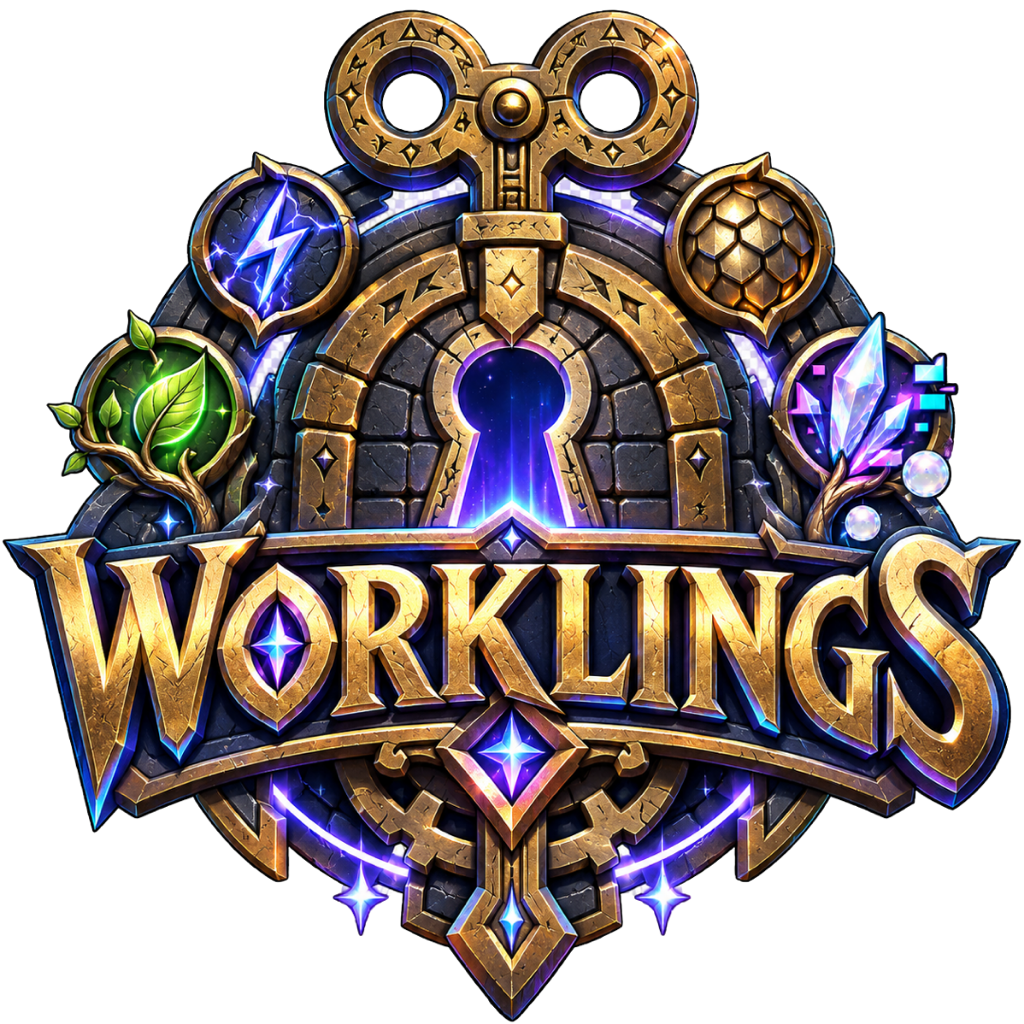
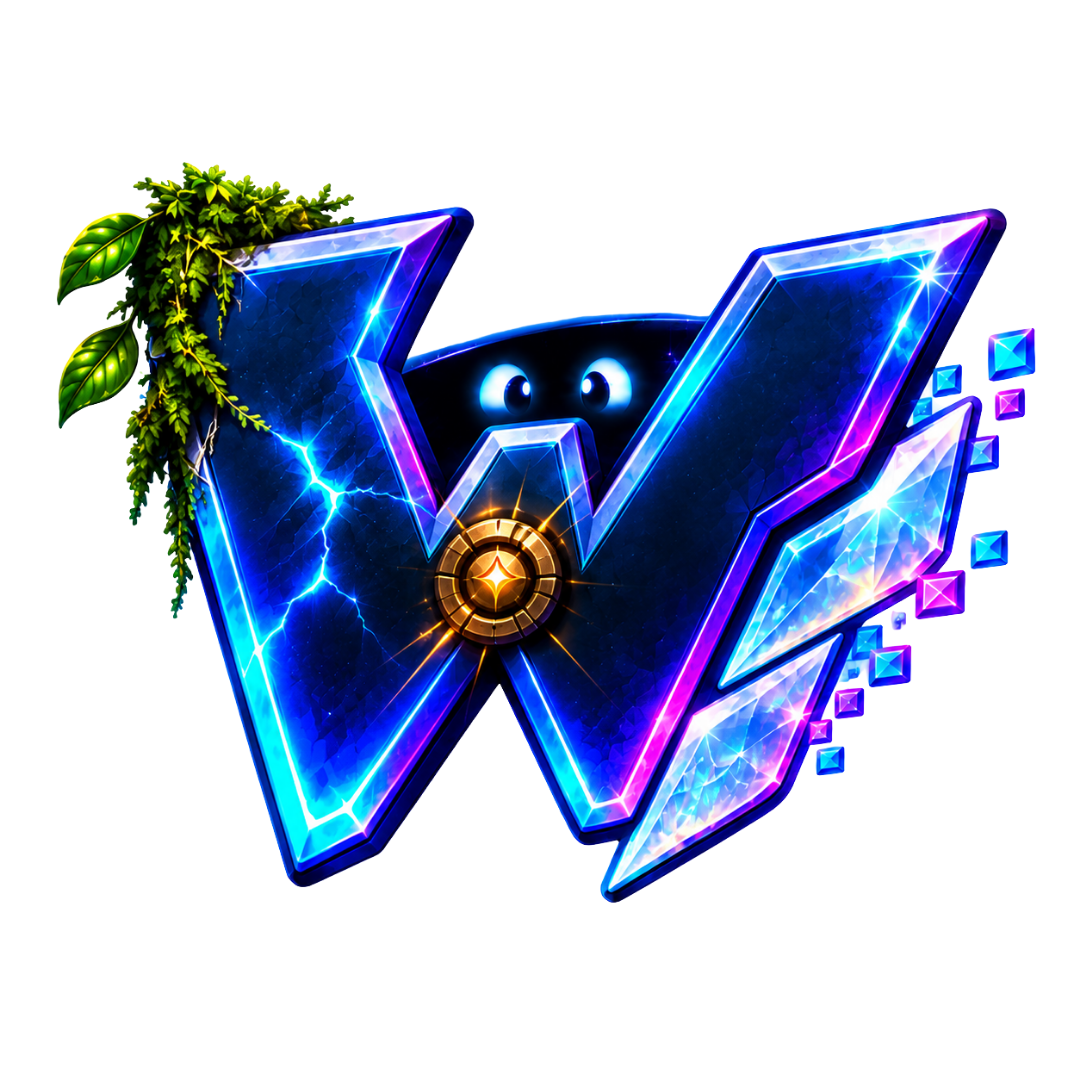
Give the app the wordmark's W, and stop shipping Intel

diff --git a/docs/changelog.md b/docs/changelog.md
@@ -1,5 +1,7 @@
 # Changelog
 
+- **2026-09-14 > godot/worklings/assets/app-icon.png, export_presets.cfg, scripts/godot-export, README.md, assets/worklings-poster.jpg, .gitignore, docs/process/distribution.md > the brand gets its W, and the bundle stops shipping an Intel copy of itself > **The app icon is now the wordmark's own letterform** rather than the crest from a day earlier — the same crystal facets, the same electric-blue-to-magenta run, the moss on the left riser, the gold clockwork gear at the crossing, and the eyes over the top. The crest was a good emblem for a different game; this one is recognisably the thing on the poster. The README hero becomes the horizontal key art, with the four families running out of a ruined arcane city. **And the shipped bundle stops being universal.** alpha.11 went out carrying a fat engine binary and a 76 MB Intel .NET runtime that no Apple Silicon Mac ever loads, because the doc claimed dropping Intel was one config line and done — it was neither. `binary_format/architecture="arm64"` fails outright: the .NET export templates ship one universal binary rather than per-arch ones, so the export dies naming a template file the archive never contained. The preset stays `universal` and `scripts/godot-export` strips the finished bundle instead, before signing: `lipo -thin arm64` on the engine binary, the x86_64 runtime deleted, and the Info.plist keys advertising x86_64 removed so the bundle does not claim an architecture it no longer carries. **159 MB of 350 MB**, and the DMG's `arm64` in its name is finally true. Full-resolution posters and brand source art are gitignored; the README uses a 465 KB derivative, and the icon that ships is committed at its point of use.**
+
 - **2026-09-14 > release > v0.1.0-alpha.11 (build 11) > The first public build from the Godot engine, and the first release in which the Swift app is not what ships. Tagged on the merge of #56 and published as a prerelease with a 156 MB Apple Silicon DMG and its checksum. It carries the whole port: the Cache Warren rebuilt around a round the player decides — Strike, Brace or Signature each round, the foe declaring its next move as an icon over its head before you commit, the Workling acting first, one countdown per move, and a HUD with the run state and a beat clock that names the turn — live rigged 3D characters with real idle, walk, attack, damage and death animations standing on the floor rather than through it, a per-creature signature effect layer, the desktop pet rebuilt on the same engine against the same save file, the prep/loadout screen, the end-of-delve pip loop fixed, and the app's first icon. Two things testers need told: the bundle identifier is still `com.bingeljell.worklings.godot`, so it installs **alongside** alpha.10 rather than over it while sharing one save file; and the download is 156 MB against alpha.10's 5 MB because the engine and the .NET runtime ship inside the app — the game itself is 16 MB of it.**
 
 - **2026-09-14 > scripts/verify_release, docs/process/distribution.md > the release verifier learns the Godot bundle's shape > `scripts/build_dmg` was taught the Godot bundle when the export was packaged; `verify_release` was not, so the last gate before publishing still failed a correct build. It insisted on the four pixel-art sprite sheets the Swift app carried loose in `Resources` — the Godot build packs its assets into the `.pck` and the art direction left pixel art behind — so it now checks `Worklings.pck` and the managed assemblies instead, the two things that actually go missing from an export and both of which fail silently. Three smaller mismatches with it: the bundle identifier may now be `com.bingeljell.worklings.godot` as well as the original (both are valid while the port runs; at cutover the second entry goes away), `CFBundleShortVersionString` is compared against the semantic core rather than the full prerelease version because macOS allows at most three integers there, and the minimum-system read falls back to `LSMinimumSystemVersionByArchitecture` — the Godot export writes that instead of a flat `LSMinimumSystemVersion`, and spells the value `14.00`.**

diff --git a/docs/process/distribution.md b/docs/process/distribution.md
@@ -158,17 +158,17 @@ shape for alpha.11.
 
 ### What it weighs, and why
 
-The first universal export was **336 MB**, against the Swift app's 4.7 MB. The
-breakdown is the whole explanation:
+`v0.1.0-alpha.11` shipped at **350 MB** (a 156 MB DMG), against the Swift app's
+4.7 MB. The breakdown is the whole explanation:
 
-| Part | Size |
-| --- | --- |
-| Godot engine binary (both architectures) | 163 MB |
-| .NET runtime, Apple Silicon | 82 MB |
-| .NET runtime, Intel | 75 MB |
-| **The game itself** — every scene, model, texture and line of our code | **16 MB** |
+| Part | alpha.11 | alpha.12 |
+| --- | --- | --- |
+| Godot engine binary | 162 MB (fat) | 79 MB (arm64) |
+| .NET runtime, Apple Silicon | 82 MB | 82 MB |
+| .NET runtime, Intel | 76 MB | — |
+| **The game itself** — every scene, model, texture and line of our code | **27 MB** | **27 MB** |
 
-**The game is 16 MB.** Everything else is engine and runtime, and in a universal
+**The game is 27 MB.** Everything else is engine and runtime, and in a universal
 build all of it ships twice.
 
 The Swift app is 4.7 MB because it borrows almost everything from the operating
@@ -178,16 +178,29 @@ because none of that can be assumed to exist on Windows or Linux. **The size is
 the price of cross-platform**, showing up as megabytes rather than as a second
 codebase — which was the trade the engine decision made on purpose.
 
-Dropping Intel takes it to roughly **180 MB** and costs a single config line.
-That is done.
+### Dropping Intel: not a config line
 
-### Deferred: getting it below 180 MB
+It was recorded here as "a single config line, and that is done". It was neither,
+and alpha.11 shipped an Intel engine and an Intel .NET runtime to Apple Silicon
+testers because of it.
 
-**Not before an alpha ships from it.** This is a distribution problem, not an
-architecture one — nothing built on top gets harder because the bundle is large,
-so it does not compound and it does not gate anything. Revisit when there is a
-build worth publishing, around alpha.11 or whichever version the port first
-ships as.
+`binary_format/architecture="arm64"` **fails**: the .NET export templates ship
+one universal binary rather than per-arch ones, so the export dies on a missing
+template naming a file the archive never contained. The preset has to stay
+`universal`.
+
+What works is stripping the finished bundle, which `scripts/godot-export` now
+does before it signs: `lipo -thin arm64` on the engine binary, the
+`data_Worklings_macos_x86_64` runtime deleted outright, and the Info.plist keys
+that advertise x86_64 removed with them. **159 MB of 350 MB**, taking alpha.12
+to roughly 190 MB. The DMG name has said `arm64` since alpha.11; as of alpha.12
+it is true.
+
+### Deferred: getting it below 190 MB
+
+This is a distribution problem, not an architecture one — nothing built on top
+gets harder because the bundle is large, so it does not compound and it does not
+gate anything.
 
 Two levers, in order of effort:
 
@@ -209,7 +222,6 @@ here.
 
 - Developer ID signing and Apple notarization.
 - Universal or separately published Intel builds.
-- A project-specific icon and final artwork.
 - Automatic release creation after protected CI checks.
 - Update checks or an in-app updater.
 - Reproducible builds across multiple machines and Xcode versions.

diff --git a/README.md b/README.md
@@ -1,7 +1,7 @@
 # Worklings
 
 <p align="center">
-  <img src="assets/worklings-social-preview.jpg" alt="Wildkin, Elemental, and Relicborn Worklings gathered in a magical woodland" width="900">
+  <img src="assets/worklings-poster.jpg" alt="Four Worklings — a moss fox, a storm ram, a clockwork pangolin and a glitch wolf — running out of a ruined arcane city" width="900">
 </p>
 
 As an MMO fan whose been itching to find some outlet, I figured having a pet that actually feels like a pet that lives in your computer, but responds to stimuli from your actions, rather than some superficial toy was in order. Think of a pet that will level up as you complete tasks and do work. Levels come with stat points, build trees, ability to quest, gear, etc...  THe sky is the limit, but we'll see. I'm also keen on multiplayer at some point. We're so early! 
